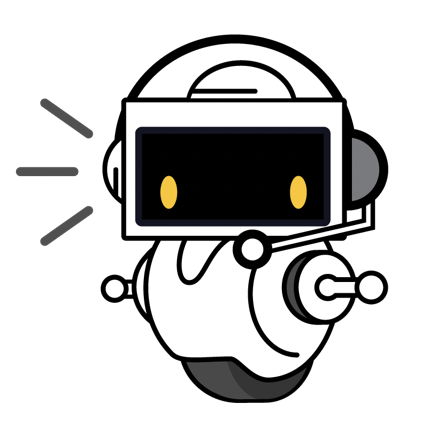
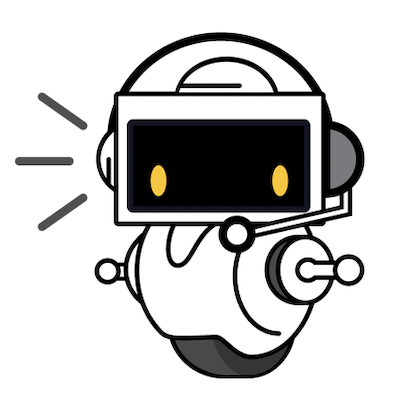
modifying image sizes and adding border plus shadow

diff --git a/content/english/security/1- Meeting Alice, Bob and Eve/_index.md b/content/english/security/1- Meeting Alice, Bob and Eve/_index.md
@@ -6,20 +6,38 @@ weight: 1
 translationKey: "security-1"
 ---
 
-![Cannot load image](Bob.png?classes=border,shadow,s=200)
-Meet our friend **Bob**, he has a "SECRET" that he doesn’t want to share. It is 
-locked somewhere safe. Only Bob has the key to the lock. 
+![Cannot load image](Bob.png?classes=border,shadow)
 
-![Cannot load image](Eve.png?classes=border,shadow,s=200)
-Meet our not so good friend **Eve**, they want access to **Bob**’s secret.
-**Eve** has been spying on **Bob**. They realize **Bob** loves his pet dog "Max".
+Meet our friend **Bob**. **Bob** has a secret that he doesn’t want to share, he 
+would like to keep it secured. He has the secret locked somewhere safe. Only 
+Bob has the `key` to the lock to make sure that no one can get to his secret
+but him.
 
-They figure out the key to his lock which is *I love Max* and voila **Eve** 
-finds out Bob’s “SECRET”.
+![Cannot load image](Eve.png?classes=border,shadow)
 
-Well we don’t want that.
+Meet our not so good friend **Eve**. **Eve** wants access to **Bob**’s secret.
+
+**Eve** realizes that to get to **Bob**'s secret, they need to first get past
+**Bob**'s lock. **Eve** can't break the lock, but maybe she can figure out the
+`key`. After spying on **Bob** for a while, **Eve** realizes that he really 
+loves his pet dog, Max. This gives **Eve** an idea.
+
+<!-- **Eve** has been spying on **Bob**. **Eve** is hoping to see if they can find 
+something that would give them a hint about how to get to **Bob**'s secret. 
+They realize **Bob** loves his pet dog, Max. -->
+
+**Eve** thinks that, since **Bob** loves his pet so much, he might have decided
+to make that the `key` to his lock. They decide to give it a try, and *violà*, 
+**Eve** was able to open **Bob**'s lock and see his secret.
+
+<!-- They figure out the key to his lock which is *I love Max* and voila **Eve** 
+finds out Bob’s “SECRET”. -->
+
+This is not good for **Bob**! He wants to know what he could have done
+differently so that **Eve** couldn't break his lock so easily, but he doesn't
+know where to start.
 
 ![Cannot load image](Alice.png?classes=border,shadow)
-Here comes Bob’s very good friend Secret Agent **Alice**. Let's see what she has to share...
 
-
+Luckily for **Bob**, his good friend Secret Agent **Alice** arrives to help
+him out with his situation. Let's see what **Alice** has to say...
